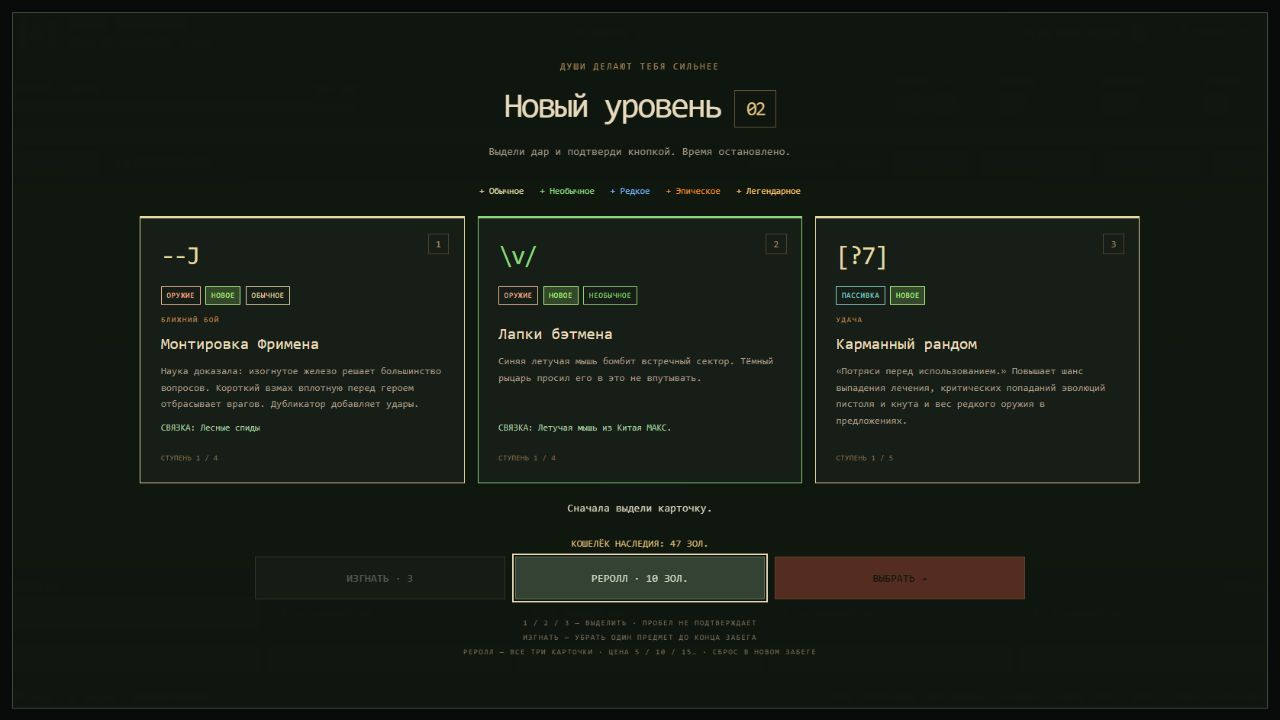
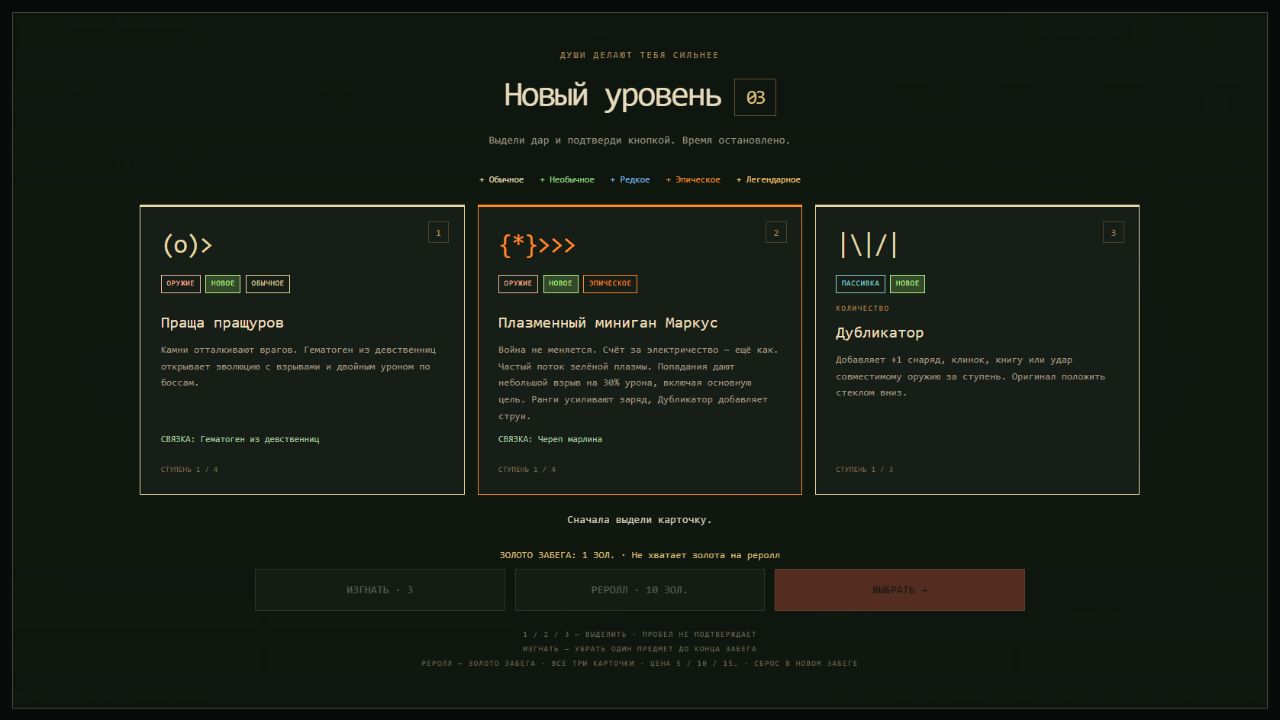
Add exploration supply crates and use run gold for rerolls

diff --git a/progress.js b/progress.js
@@ -29,9 +29,9 @@
     if (game.stressMode || !['running', 'paused', 'upgrading', 'reward'].includes(game.status)) return null;
     const save = {
       version: 10, runId: game.runId, savedAt: Date.now(), seed: game.seed, randomState: game.randomState >>> 0,
-      banished: [...game.banished], banishesLeft: game.banishesLeft, skipsLeft: game.skipsLeft, offerSelection: game.offerSelection, rerollsUsed: game.rerollsUsed,
+      banished: [...game.banished], banishesLeft: game.banishesLeft, skipsLeft: game.skipsLeft, offerSelection: game.offerSelection, rerollsUsed: game.rerollsUsed, rerollGoldSpent: game.rerollGoldSpent,
       weaponOrder: game.inventory(true), passiveOrder: game.inventory(false), legacyInventory: game.legacyInventory || game.inventory(true).length > 5 || game.inventory(false).length > 5,
-      treasuresTaken: Array.from(game.treasuresTaken), rosterBossIndex: game.rosterBossIndex, combat: game.combat.snapshot(),
+      treasuresTaken: Array.from(game.treasuresTaken), supplyTaken: Array.from(game.supplyTaken), rosterBossIndex: game.rosterBossIndex, combat: game.combat.snapshot(),
       leechBudget: game.leechBudget,
       holyMarks: Array.from(game.holyMarks, ([id,mark]) => [id,{...mark}]),
       burnMarks: Array.from(game.burnMarks, ([id,mark]) => [id,{...mark}]),
@@ -41,7 +41,7 @@
       fireMode: game.fireMode, selectedWeapon: game.selectedWeapon, lastBoss: game.lastBoss,
       player: pick(game.player, playerKeys), levels: { ...game.levels }, clocks: { ...game.weaponClocks },
       offers: game.offers.map(u => u.id), encountered: Array.from(game.encountered),
-      terrainEnabled: game.terrainEnabled, arenaBalance: 4, encounter: game.encounter ? { ...game.encounter } : null,
+      terrainEnabled: game.terrainEnabled, arenaBalance: 5, encounter: game.encounter ? { ...game.encounter } : null,
       chests: game.chests.map(chest => ({ ...chest })), reward: game.reward ? { ...game.reward, items: game.reward.items.map(item => ({ ...item })), ...(game.reward.options ? { options: game.reward.options.map(option => ({ ...option })) } : {}) } : null,
       enemies: game.enemies.filter(e => e.alive).map(e => [e.kind, ...enemyKeys.map(key => e[key])]),
       gems: game.gems.map(g => ({ x: g.x, y: g.y, value: g.value, bin: g.bin, magnetized: Boolean(g.magnetized) }))
@@ -67,10 +67,17 @@
       if (!['running', 'paused', 'upgrading', 'reward'].includes(save.status) || !NightCharacters.some(c => c.id === save.characterId)) return null;
       if (!uint(save.seed) || !uint(save.randomState) || !plain(save.levels) || !plain(save.player) || !plain(save.clocks)) return null;
       if (save.rerollsUsed !== undefined && (!uint(save.rerollsUsed) || save.rerollsUsed > 1000000)) return null;
+      if (save.rerollGoldSpent !== undefined && (!uint(save.rerollGoldSpent) || save.rerollGoldSpent > save.goldEarned)) return null;
       if (save.version >= 3 && (!plain(save.meta) || NightMeta.some(u => !uint(save.meta[u.id]) || save.meta[u.id] > u.max))) return null;
       if(save.mapId!==undefined&&!NightCatalog.stages.some(s=>s.id===save.mapId))return null;
       const game = new NightGame(save.seed, save.characterId, { map:save.mapId||'graveyard',enemyLimit: number(save.enemyLimit, 100, 24000), fireMode: save.fireMode, terrain: save.terrainEnabled !== false, meta: save.version >= 3 ? save.meta : {} });
       game.rerollsUsed = save.rerollsUsed || 0;
+      game.rerollGoldSpent = save.rerollGoldSpent || 0;
+      if (save.supplyTaken !== undefined) {
+        const taken = list(save.supplyTaken, game.supplyCrates.length);
+        if (new Set(taken).size !== taken.length || taken.some(id => !uint(id) || !game.supplyCrates.some(c => c.id === id))) return null;
+        game.supplyTaken = new Set(taken);
+      }
       if (save.version >= 10) {
         const banned = list(save.banished, 3);
         if (banned.some(id => !NightUpgrades.some(u => u.id === id)) || new Set(banned).size !== banned.length || !uint(save.banishesLeft) || save.banishesLeft !== 3 - banned.length || !uint(save.skipsLeft) || save.skipsLeft > 3 || !Number.isInteger(save.offerSelection) || save.offerSelection < -1 || save.offerSelection > 2) return null;
@@ -174,6 +181,10 @@
         }
         if (!(save.arenaBalance>=4)) for (const boss of game.enemies) if (game.isEncounterBoss(boss)) {
           const fraction=boss.hp/boss.maxHp;boss.maxHp=game.encounterBossHealth(game.bossIndex);boss.hp=boss.maxHp*fraction;
+        }
+        if (!(save.arenaBalance>=5)) for (const boss of game.enemies) if (game.isFirstBoss(boss)) {
+          if (save.arenaBalance>=3) boss.damage *= NightBalance.firstBossDamage / .45;
+          boss.skillClock = Math.min(boss.skillClock, NightBalance.firstBossSkill);
         }
         game.chests = list(save.chests, 64).map(c => {
           if (!Object.hasOwn(NightEnemies, c.source) || !NightEnemies[c.source].boss || !uint(c.id) || c.id < 1 || c.id >= game.nextChestId) throw new Error('Invalid chest');
@@ -336,18 +347,19 @@
       return written;
     }
     rerollReceipt(receipt) {
-      return plain(receipt) && typeof receipt.runId === 'string' && receipt.runId.length > 0 && receipt.runId.length <= 120 && uint(receipt.level) && receipt.level >= 2 && uint(receipt.count) && receipt.count > 0 && receipt.count <= 1000000 && uint(receipt.randomState) && receipt.randomState <= 0xffffffff && Array.isArray(receipt.offers) && receipt.offers.length > 0 && receipt.offers.length <= 3 && new Set(receipt.offers).size === receipt.offers.length && receipt.offers.every(id => NightUpgrades.some(u => u.id === id)) ? receipt : null;
+      return plain(receipt) && (receipt.spent === undefined || uint(receipt.spent)) && typeof receipt.runId === 'string' && receipt.runId.length > 0 && receipt.runId.length <= 120 && uint(receipt.level) && receipt.level >= 2 && uint(receipt.count) && receipt.count > 0 && receipt.count <= 1000000 && uint(receipt.randomState) && receipt.randomState <= 0xffffffff && Array.isArray(receipt.offers) && receipt.offers.length > 0 && receipt.offers.length <= 3 && new Set(receipt.offers).size === receipt.offers.length && receipt.offers.every(id => NightUpgrades.some(u => u.id === id)) ? receipt : null;
     }
     reroll(game) {
       if (game.stressMode || !game.canReroll || game.rerollsUsed >= 1000000) return false;
       const p = this.loadProfile(); this.bank(game, p);
-      if (p.meta.gold < game.rerollCost || !this.checkpoint(game)) return false;
-      const previous = { offers: game.offers, offerSelection: game.offerSelection, randomState: game.randomState, rerollsUsed: game.rerollsUsed };
+      if (game.goldAvailable < game.rerollCost || p.meta.gold < game.rerollCost || !this.checkpoint(game)) return false;
+      const previous = { offers: game.offers, offerSelection: game.offerSelection, randomState: game.randomState, rerollsUsed: game.rerollsUsed, rerollGoldSpent: game.rerollGoldSpent };
       const cost = game.rerollCost;
       if (!game.rerollOffers()) return false;
       p.meta.gold -= cost;
+      game.rerollGoldSpent += cost;
       // Save the paid cards with the debit so an interrupted checkpoint cannot lose a purchase.
-      p.reroll = { runId: game.runId, level: game.level, count: game.rerollsUsed, randomState: game.randomState >>> 0, offers: game.offers.map(u => u.id) };
+      p.reroll = { runId: game.runId, level: game.level, count: game.rerollsUsed, spent: game.rerollGoldSpent, randomState: game.randomState >>> 0, offers: game.offers.map(u => u.id) };
       if (!this.write(PROFILE_KEY, p)) { Object.assign(game, previous); return false; }
       this.profile = p; this.checkpoint(game); return true;
     }
@@ -355,7 +367,7 @@
       const save = this.read(RUN_KEY), receipt = this.loadProfile().reroll;
       if (save && receipt?.runId === save.runId && receipt.count > (save.rerollsUsed || 0)) {
         if (save.status !== 'upgrading' || save.level !== receipt.level) return null;
-        Object.assign(save, { offers: receipt.offers, randomState: receipt.randomState, rerollsUsed: receipt.count, offerSelection: -1 });
+        Object.assign(save, { offers: receipt.offers, randomState: receipt.randomState, rerollsUsed: receipt.count, rerollGoldSpent: receipt.spent || 0, offerSelection: -1 });
       }
       return restore(save);
     }

diff --git a/core.js b/core.js
@@ -13,7 +13,7 @@
   const BALLISTICS = Object.fromEntries(EXTRA_WEAPONS.filter(w => w.projectile).map(w => [w.id, w.projectile]));
   const WEAPON_DAMAGE = Object.fromEntries(UPGRADES.filter(u => u.weapon).map(u => [u.id, u.damageMultiplier]));
   const WORLD = Object.freeze({ width: 12800, height: 9600 });
-  const BALANCE = Object.freeze({ xpDropChance: .5, heartDropChance: .00875, bossHeartDropChance: .25, xpDecay: .08, goldMultiplier: .45, weaponCooldown: .85, dashCooldown: .6, arenaSeconds: 15, arenaBossHealth: 1.25, arenaBossDamage: .75, arenaSummonLimit: 4, firstBossHealth: .25, firstBossDamage: .45, firstBossSkill: 5.5, firstBossMinions: 2 });
+  const BALANCE = Object.freeze({ xpDropChance: .5, heartDropChance: .00875, bossHeartDropChance: .25, xpDecay: .08, goldMultiplier: .45, weaponCooldown: .85, dashCooldown: .6, arenaSeconds: 15, arenaBossHealth: 1.25, arenaBossDamage: .75, arenaSummonLimit: 4, firstBossHealth: .25, firstBossDamage: .65, firstBossSkill: 3.5, firstBossMinions: 2 });
   const BOSSES = ['lichLord', 'british', 'freddy', 'jason', 'alienQueen', 'reaper'];
   const EnemySystem = root.NightEnemySystem || require('./enemy-system.js');
   const Combat = root.NightCombat || require('./combat.js');
@@ -74,6 +74,14 @@
       this.weaponOrder = []; this.passiveOrder = []; this.legacyInventory = false; this.rosterBossIndex = 0;
       this.treasuresTaken = new Set(); this.treasures = [];
       for (let i = 0; i < 12; i++) { const hash = terrainHash(i + this.seed % 10000, 37); const cache = { id: i, x: 600 + hash % (this.width - 1200), y: 600 + (hash >>> 12) % (this.height - 1200), radius: 20 }; this.resolveTerrain(cache); this.treasures.push(cache); }
+      this.supplyTaken = new Set(); this.supplyCrates = [];
+      if (!this.stressMode) for (let i = 0; i < 48; i++) {
+        const hash = terrainHash(this.seed ^ i, 83), other = terrainHash(this.seed ^ i, 97), roll = hash % 10;
+        const kind = roll < 5 ? 'heal' : roll < 8 ? 'magnet' : 'level';
+        const crate = { id:i, kind, x:(i % 8 + .2 + (hash >>> 8) / 0x1000000 * .6) * 1600, y:(Math.floor(i / 8) + .2 + (other >>> 8) / 0x1000000 * .6) * 1600, radius:20 };
+        if (i === 27) { const angle = hash / 0x100000000 * TAU; crate.x = this.width / 2 + Math.cos(angle) * 540; crate.y = this.height / 2 + Math.sin(angle) * 540; }
+        this.resolveTerrain(crate); this.supplyCrates.push(crate);
+      }
       this.enemyLimit = clamp(Math.floor(Number(options.enemyLimit) || 6000), 100, 24000);
       this.peakEnemies = 0; this.nextBossAt = 60; this.bossIndex = 0; this.bossKills = 0; this.lastBoss = '';
       this.nextMegaAt = 600; this.bossWhips = [];
@@ -100,7 +108,7 @@
       this.weaponClocks = { blades: 0, lightning: .25, boomerang: .25, frost: .3, meteor: .3, poison: 0 };
       for (const w of EXTRA_WEAPONS) this.weaponClocks[w.id] = .3;
       this.slashes = []; this.gemBins = new Map(); this.cellPool = [];
-      this.offers = []; this.offerSelection = -1; this.banished = new Set(); this.banishesLeft = 3; this.skipsLeft = 3; this.rerollsUsed = 0;
+      this.offers = []; this.offerSelection = -1; this.banished = new Set(); this.banishesLeft = 3; this.skipsLeft = 3; this.rerollsUsed = 0; this.rerollGoldSpent = 0;
       this.shootClock = .15; this.spawnClock = .35; this.pulseClock = 1.2;
       this.spawnRadius = 650; this.bossSpawned = false; this.damageFlash = 0; this.events = [];
       this.grid = new Map();
@@ -188,6 +196,7 @@
       this.offers = offers; this.offerSelection = -1;
     }
     get rerollCost() { return 5 * (this.rerollsUsed + 1); }
+    get goldAvailable() { return Math.max(0, this.goldEarned - this.rerollGoldSpent); }
     rerollCandidates() { return UPGRADES.filter(u => this.canUpgrade(u) && !this.offers.includes(u)); }
     get canReroll() { return this.status === 'upgrading' && this.rerollsUsed < 1000000 && this.offers.length > 0 && this.rerollCandidates().length >= this.offers.length; }
     rerollOffers() {
@@ -302,6 +311,7 @@
       const first = this.bossIndex === 0;
       boss.hp = boss.maxHp = this.encounterBossHealth(); boss.damage *= first ? BALANCE.firstBossDamage : BALANCE.arenaBossDamage;
       boss.radius = Math.min(46, boss.radius * 1.25); boss.arenaMember = 1;
+      if (first) boss.skillClock = 1.2;
       this.player.invulnerable = Math.max(this.player.invulnerable, 1);
       arena.bossId = boss.id; this.bossIndex++; this.bossSpawned = true; this.lastBoss = boss.title;
       this.events.push('boss');
@@ -555,6 +565,18 @@
     healPlayer(value) {
       const actual = Math.max(0, Math.min(value, this.player.maxHp - this.player.hp));
       this.player.hp += actual; this.combat.record('healing', actual); return actual;
+    }
+    openSupply(crate) {
+      if (this.stressMode || this.status !== 'running' || !this.supplyCrates.includes(crate) || this.supplyTaken.has(crate.id) || Math.hypot(crate.x - this.player.x, crate.y - this.player.y) >= 32) return false;
+      this.supplyTaken.add(crate.id);
+      if (crate.kind === 'heal') this.healPlayer(30);
+      else if (crate.kind === 'level') { this.xp += this.xpNeed; this.checkLevel(); }
+      else {
+        const xp = this.gems.reduce((total, gem) => total + gem.value, 0);
+        this.gems = []; this.gemBins.clear(); this.grantXP(xp);
+      }
+      this.rings.push({ x:crate.x, y:crate.y, radius:90, life:.65, maxLife:.65, ink:crate.kind === 'heal' ? 11 : crate.kind === 'level' ? 7 : 16, glyph:'+' });
+      this.events.push('supply-' + crate.kind); return true;
     }
     gainXP(value) { const total = value * this.growth * this.xpEfficiency + this.xpCarry, whole = Math.floor(total + 1e-8); this.xpCarry = Math.max(0, total - whole); this.xp += whole; this.combat.record('xp', whole); return whole; }
     grantXP(value) { if(this.sandboxMode)return;this.gainXP(value); this.checkLevel(); }
@@ -956,7 +978,7 @@
           const a = angle + (i - (count - 1) / 2) * .22, speed = e.projectileSpeed || 175;
           this.enemyShots.push({ x: e.x, y: e.y, prevX: e.x, prevY: e.y, vx: Math.cos(a) * speed, vy: Math.sin(a) * speed, life: 4, damage: e.damage * (e.projectileDamageScale ?? .8), radius: 7, ink: e.ink, glyph: e.kind === 'pumpkin' ? 'o' : '~' });
         }
-        if (e.kind === 'lichLord') this.queueSummons(e, 'skeleton', this.isFirstBoss(e) ? 1 : 3);
+        if (e.kind === 'lichLord') this.queueSummons(e, 'skeleton', this.isFirstBoss(e) ? 2 : 3);
       } else if (e.ai === 'summoner') {
         this.queueSummons(e, 'ghoul', 3); this.queueSummons(e, 'mummy', 1);
       } else if (e.ai === 'blink') {
@@ -1108,6 +1130,10 @@
         this.healPlayer(heart.value); this.combat.record('heartsTaken', 1); heart.taken = true; this.burst(p.x, p.y, 3, 10);
       }
       this.hearts = this.hearts.filter(h => !h.taken && (!h.expires || h.expires > this.time)).slice(-128);
+      if (this.status === 'running') {
+        const crate = this.supplyCrates.find(c => !this.supplyTaken.has(c.id) && Math.hypot(c.x - p.x, c.y - p.y) < 32);
+        if (crate) this.openSupply(crate);
+      }
       if (this.status === 'running') {
         const cache = this.treasures.find(c => !this.treasuresTaken.has(c.id) && Math.hypot(c.x - p.x, c.y - p.y) < 32);
         if (cache) {

diff --git a/game.js b/game.js
@@ -208,8 +208,9 @@
     }
     for (const cache of game.treasures) if (!game.treasuresTaken.has(cache.id)) marker(cache.x, cache.y, 'X', '#edc77d', 'Тайник ' + (cache.id + 1));
     for (const chest of game.chests) marker(chest.x, chest.y, '$', '#c49be2', 'Оставленный сундук');
+    for (const crate of game.supplyCrates) if (!game.supplyTaken.has(crate.id)) marker(crate.x, crate.y, crate.kind === 'heal' ? '+' : crate.kind === 'level' ? '^' : 'U', crate.kind === 'heal' ? '#b6dfad' : crate.kind === 'level' ? '#edc77d' : '#6fbbff', crate.kind === 'heal' ? 'Ящик: 30 здоровья' : crate.kind === 'level' ? 'Ящик: бесплатный уровень' : 'Ящик: собрать все кристаллы');
     marker(game.player.x, game.player.y, '@', '#f47561', 'Ты здесь');
-    text('map-summary', 'ТАЙНИКОВ: ' + (12 - game.treasuresTaken.size) + '/12 · СУНДУКОВ БОССОВ: ' + game.chests.filter(c => !c.treasure).length + ' · ТВОЯ ПОЗИЦИЯ: ' + Math.round(game.player.x) + ' : ' + Math.round(game.player.y));
+    text('map-summary', 'ТАЙНИКОВ: ' + (12 - game.treasuresTaken.size) + '/12 · ПРИПАСОВ: ' + (game.supplyCrates.length - game.supplyTaken.size) + ' · СУНДУКОВ БОССОВ: ' + game.chests.filter(c => !c.treasure).length + ' · ТВОЯ ПОЗИЦИЯ: ' + Math.round(game.player.x) + ' : ' + Math.round(game.player.y));
     $('world-map').showModal();
   }
   function resize() {
@@ -396,11 +397,11 @@
     const selected = game.offers[game.offerSelection];
     $('upgrade-confirm').disabled = !selected;
     $('upgrade-banish').disabled = !selected || !game.banishesLeft;
-    const wallet = progress.profile.meta.gold + Math.max(0, game.goldEarned - (progress.profile.meta.credited[game.runId] || 0));
+    const wallet = game.goldAvailable;
     $('upgrade-reroll').disabled = !game.canReroll || wallet < game.rerollCost;
     text('upgrade-banish', 'ИЗГНАТЬ · ' + game.banishesLeft);
     text('upgrade-reroll', 'РЕРОЛЛ · ' + game.rerollCost + ' ЗОЛ.');
-    text('upgrade-wallet', 'КОШЕЛЁК НАСЛЕДИЯ: ' + wallet + ' ЗОЛ.' + (!game.canReroll ? ' · Нет полного набора новых вариантов' : wallet < game.rerollCost ? ' · Не хватает золота на реролл' : ''));
+    text('upgrade-wallet', 'ЗОЛОТО ЗАБЕГА: ' + wallet + ' ЗОЛ.' + (!game.canReroll ? ' · Нет полного набора новых вариантов' : wallet < game.rerollCost ? ' · Не хватает золота на реролл' : ''));
     text('upgrade-selection', selected ? 'ВЫДЕЛЕНО: ' + selected.title : 'Сначала выдели карточку.');
   }
   function selectOffer(index) {
@@ -457,7 +458,7 @@
     text('selected-weapon', (ownedWeapons.indexOf(game.selectedWeapon) % 5 + 1) + ' / ' + weapon.title.toUpperCase() + (game.selectedWeapon === 'blades' && game.levels.blades ? ' · КЛИНКОВ: ' + (game.levels.blades + game.levels.fork + (game.isEvolved('blades') ? 2 : 0)) : ''));
     text('weapon-page', 'ОРУЖИЕ ' + ownedWeapons.length + '/5' + (game.weaponPages > 1 ? ' · СТР. ' + (game.weaponPage + 1) + '/' + game.weaponPages + (game.stressMode ? ' · ТЕСТ' : ' · СТАРЫЙ НАБОР') : ''));
     $('weapons-prev').hidden = $('weapons-next').hidden = game.weaponPages <= 1;
-    text('run-gold', 'ЗОЛОТО +' + game.goldEarned);
+    text('run-gold', 'ЗОЛОТО +' + game.goldAvailable);
     $('fire-mode').setAttribute('aria-pressed', String(manual));
     text('fire-mode', manual ? 'РУЧНОЙ ОГОНЬ [M]' : 'АВТОАТАКА [M]');
     $('fire-touch').hidden = !manual; $('stress-controls').hidden = !game.stressMode || game.sandboxMode;
@@ -528,7 +529,7 @@
         saveBest(); const won = status === 'won';
         text('ending-title', won ? 'Ты встретил рассвет' : 'Ночь победила');
         text('ending-caption', won ? 'СОЛНЦЕ ВЗОШЛО НАД КЛАДБИЩЕМ' : 'КЛАДБИЩЕ ПОЛУЧИЛО ЕЩЁ ОДНУ ДУШУ');
-        text('ending-text', 'Заработано ' + game.goldEarned + ' золота. Постоянные улучшения ждут в «Наследии» на стартовом экране.');
+        text('ending-text', 'Сохранено ' + game.goldAvailable + ' золота. На рероллы потрачено ' + game.rerollGoldSpent + '. Постоянные улучшения ждут в «Наследии» на стартовом экране.');
         text('ending-art', won ? ' \\ | /\n-- * --\n / | \\' : ' .-.\n(x x)\n |=|\n_|_|_');
         text('result-time', formatTime(game.elapsed)); text('result-kills', game.kills); text('result-level', game.level);
         $('restart').focus({ preventScroll: true });
@@ -747,7 +748,10 @@
     if (game.events.includes('arena-warning')) notify('ГОТОВЬСЯ: ПЯТЬ СЕКУНД ДО ЗАМЫКАНИЯ СТЕНЫ');
     if (game.events.includes('arena-clear') || game.events.includes('boss-defeated')) notify('БОСС ПОБЕЖДЁН · ЗАБЕРИ СУНДУК');
     if (game.events.includes('arena-timeout')) notify('СТЕНА ИСЧЕЗЛА · БОСС ОСТАЛСЯ НА ПОЛЕ');
-    if (game.events.some(event => ['boss', 'mega-boss', 'revive', 'arena-warning', 'arena-clear', 'arena-timeout', 'boss-defeated', 'chest-open'].includes(event))) saveCheckpoint();
+    if (game.events.includes('supply-heal')) notify('ЯЩИК: +30 ЗДОРОВЬЯ');
+    if (game.events.includes('supply-level')) notify('ЯЩИК: БЕСПЛАТНЫЙ УРОВЕНЬ · ВЫБЕРИ УСИЛЕНИЕ');
+    if (game.events.includes('supply-magnet')) notify('ЯЩИК: МАГНИТ СОБРАЛ ВСЕ КРИСТАЛЛЫ С КАРТЫ');
+    if (game.events.some(event => event.startsWith('supply-') || ['boss', 'mega-boss', 'revive', 'arena-warning', 'arena-clear', 'arena-timeout', 'boss-defeated', 'chest-open'].includes(event))) saveCheckpoint();
     game.events.length = 0;
     if (now - lastHUD > 85) { updateHUD(); lastHUD = now; }
     if (!document.hidden && (game.status === 'running' || dirty)) {

diff --git a/renderer.js b/renderer.js
@@ -246,6 +246,7 @@
       for (const h of game.hearts) this.world(h.x, h.y, '[+]', 11);
       for (const chest of game.chests) { this.world(chest.x, chest.y, chest.canEvolve ? ' ___\n[E*]\n|__|' : ' ___\n[?*]\n|__|', chest.canEvolve ? 5 : 7); this.world(chest.x, chest.y - 36, Math.floor(game.time * 3) % 2 ? '*' : '+', 8); }
       for (const cache of game.treasures) if (!game.treasuresTaken.has(cache.id)) this.world(cache.x, cache.y, '[X]', 7);
+      for (const crate of game.supplyCrates) if (!game.supplyTaken.has(crate.id)) this.world(crate.x, crate.y, ' ___ \n| ' + (crate.kind === 'heal' ? '+' : crate.kind === 'level' ? '^' : 'U') + ' |\n|___|', crate.kind === 'heal' ? 11 : crate.kind === 'level' ? 7 : 16);
       const arena = game.encounter;
       if (arena) {
         const warning = arena.phase === 'warning', radius = arena.radius * (warning ? .85 + .15 * (1 - arena.warningLeft / 5) : 1);

diff --git a/docs/UPGRADES.md b/docs/UPGRADES.md
@@ -29,11 +29,11 @@
 ## Изгнание и платный реролл
 
 - Три изгнания на забег: выбранное усиление больше не предлагается до его конца. Уже взятые ранги продолжают действовать; готовая эволюция остаётся доступной. Карточка заменяется, если есть подходящий предмет. Выбор уровня сохраняется. Когда замен больше нет, карточка исчезает; если не осталось ни одной, бой продолжается без награды.
-- Вместо пропуска — полный реролл: 5, 10, 15, 20… золота из общего кошелька «Наследия». Цена растёт за каждый реролл в забеге и сбрасывается в новом. Все текущие карточки исключены из следующего набора; уровень и время не тратятся. Если золота или полного набора замен недостаточно, кнопка недоступна и списания нет.
+- Вместо пропуска — полный реролл: 5, 10, 15, 20… золота только из текущего забега, за вычетом предыдущих рероллов. Старые накопления «Наследия» не используются. Цена растёт за каждый реролл в забеге и сбрасывается в новом. Все текущие карточки исключены из следующего набора; уровень и время не тратятся. Если золота или полного набора замен недостаточно, кнопка недоступна и списания нет.
 - Баланс, цена и оплаченные карточки сохраняются после перезагрузки. Запись оплаты содержит карточки для восстановления при прерванном сохранении забега. Ошибка записи оплаты отменяет реролл.
 - Выбор карточки, изгнания, рероллы и исключённые предметы входят в сохранение версии 10. Старые забеги без счётчика рероллов начинают с цены 5. Старые наборы оружия Фримена сохраняются.
 
-![Полный реролл и кошелёк](screenshots/paid-reroll.png)
+![Полный реролл и золото забега](screenshots/paid-reroll.png)
 
 `node verify-reroll.cjs` проверяет весь оружейный пул, состав предложений, отсутствие повторов после реролла, рост цены, нехватку золота и восстановление оплаченного выбора при ошибке записи.
 

diff --git a/docs/FOREST.md b/docs/FOREST.md
@@ -8,6 +8,12 @@
 
 Карта сокровищ показывает дороги, пруды, сады и доступные тайники. Её постоянное открытие за золото продолжает работать. Песочница позволяет проверять эффекты на фоне любой выбранной арены, но без препятствий.
 
+На обеих картах распределены 48 ящиков припасов с новым расположением для каждого забега: `[+]` — до 30 HP, `[^]` — один бесплатный уровень, `[U]` — все текущие кристаллы. Подойди вплотную, чтобы открыть ящик; его состояние сохраняется. Карта отмечает неоткрытые припасы соответствующими символами. Ящики доступны без покупки карты.
+
+![Ящик лечения на лесной дороге](screenshots/supply-crates.png)
+
+У первого Лич-лорда первый навык начинается через 1,2 секунды после появления, затем следует предупреждение 0,8 секунды. Интервал следующих атак — 3,5 секунды; призыв даёт двух скелетов с общим лимитом два внутри круга. Урон первого босса — 65% от обычного, здоровье и срок стены прежние. Старые сохранения обновляют этот баланс один раз без восстановления HP босса.
+
 | Минута | Волна | Враги |
 |---|---|---|
 | 0:00 | Сумеречные крылья | Могильная мышь |
